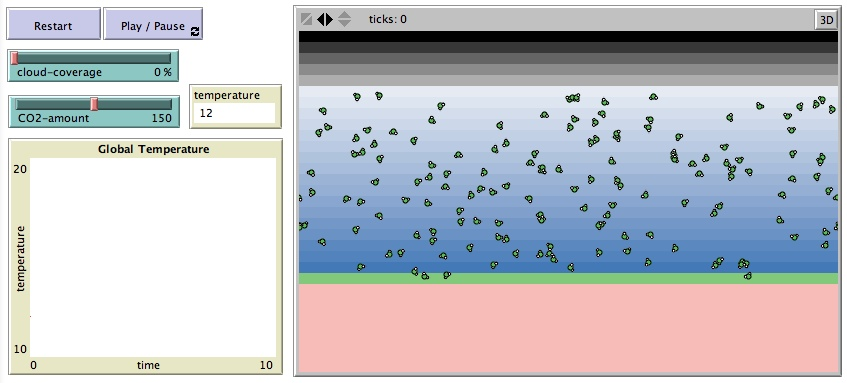
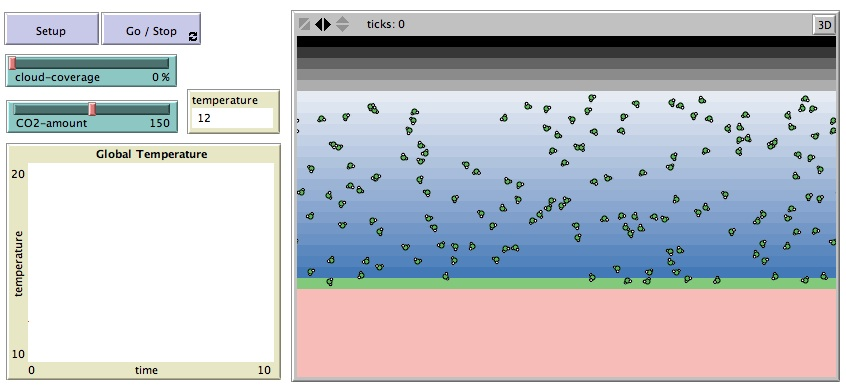
changing labels on buttons across models

diff --git a/assess/templates/sets/uni1.html b/assess/templates/sets/uni1.html
@@ -57,7 +57,7 @@
 5. Use this model to answer questions 1 - 5 of this assessment.</pre>
          <!--<iframe src="/static/netLogo/climate_change.html" class="netLogo-cc"></iframe> -->
          <div style="cursor:pointer;float:right;font-size:12px;margin-top:-12px;text-decoration:underline;"><a href="/static/netLogo/climate_change.html" target="_blank">If the model download does not work, please click here.</a></div><br/>
-         To begin the simulation, click on the <b>Reset</b> to get the model setup. Then click on the <b>Pause / Play </b> button to start the model. The CO<sub>2</sub> is shown as green and white molecules in the atmosphere. To run the simulation again, press the Reset button. A graph above the simulation shows the global temperature over the time. You can change the speed of the model with the slider at the top of the model.
+         To begin the simulation, click on the <b>Setup</b> to get the model setup. Then click on the <b>Go / Stop </b> button to start the model. The CO<sub>2</sub> is shown as green and white molecules in the atmosphere. To run the simulation again, press the Setup button. A graph above the simulation shows the global temperature over the time. You can change the speed of the model with the slider at the top of the model.
          <br/><br/>
          Try running the model a few times now. There are two sliders that adjust the level of cloud coverage and carbon dioxide (CO<sub>2</sub>) in the atmosphere. 
          <br/>
